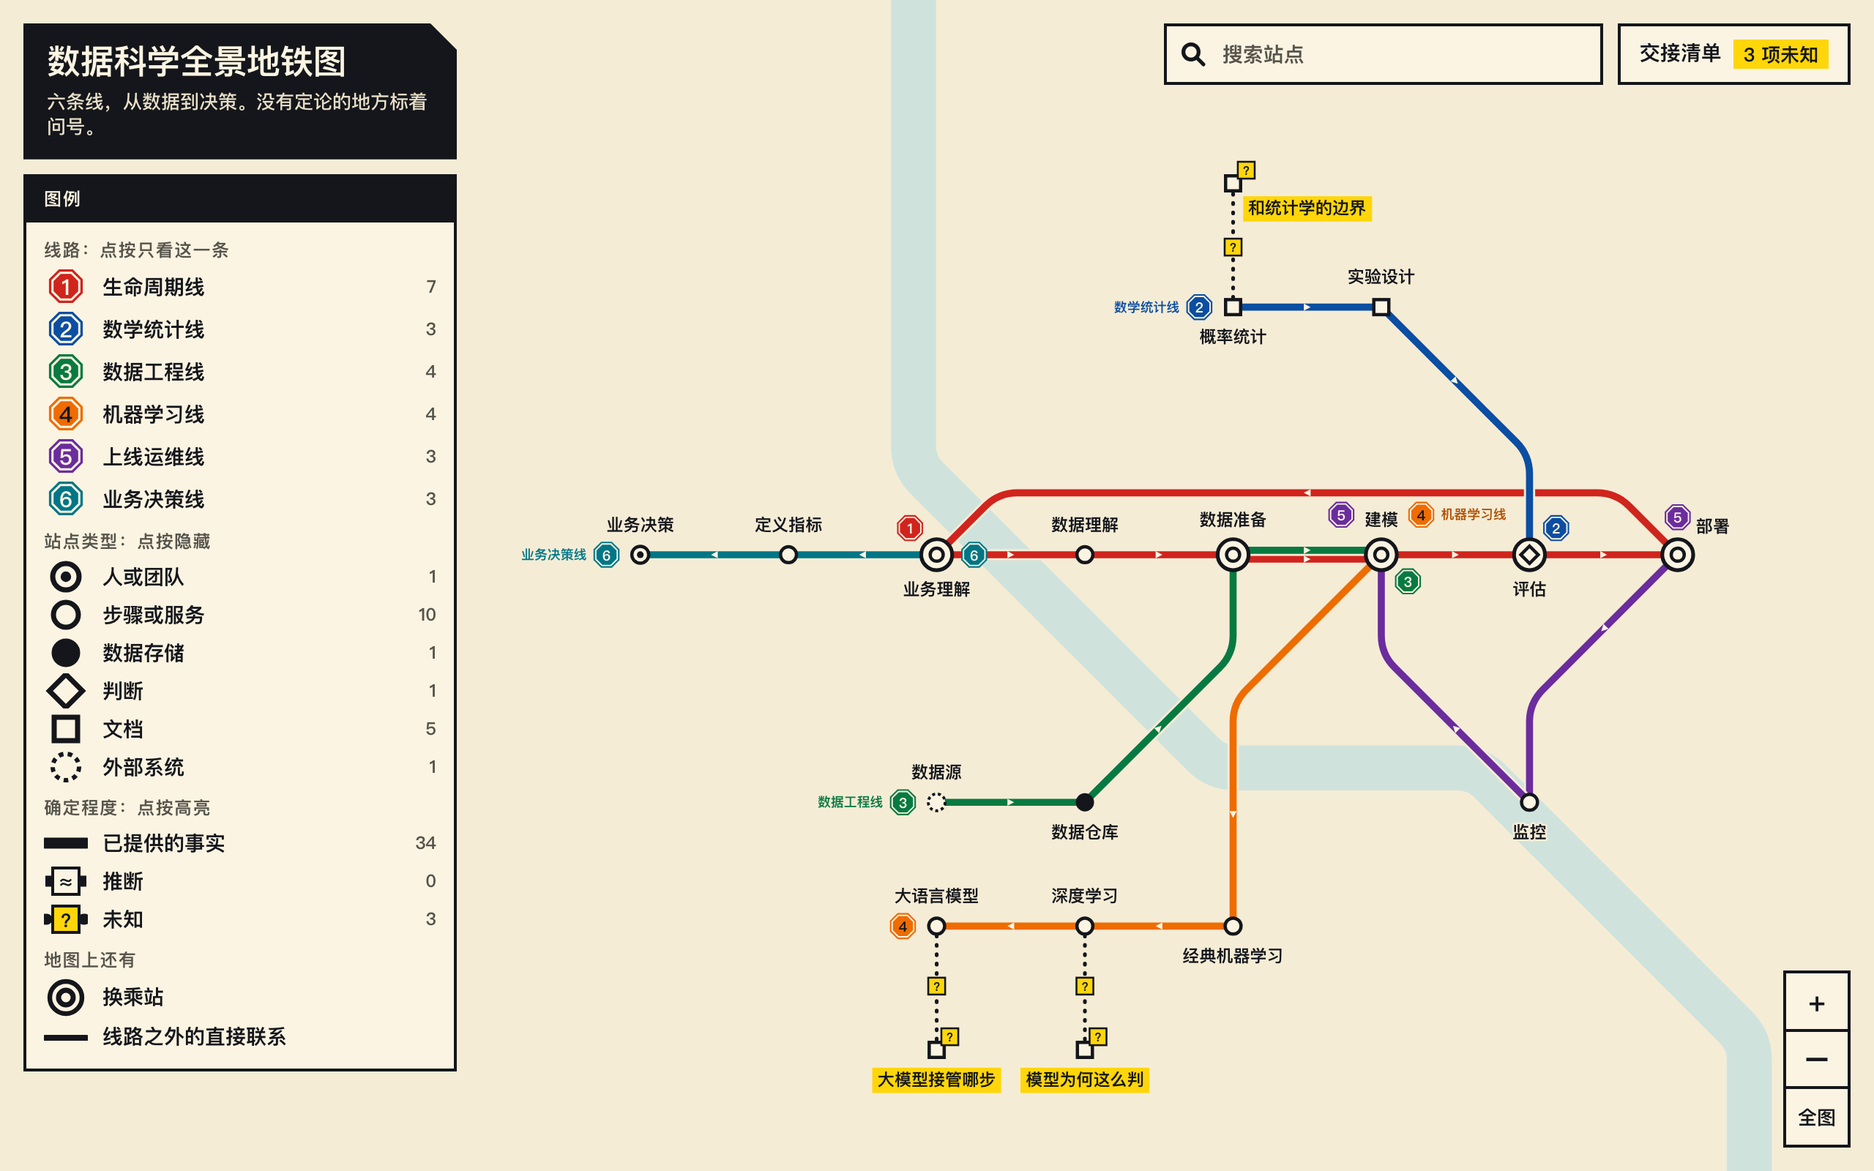
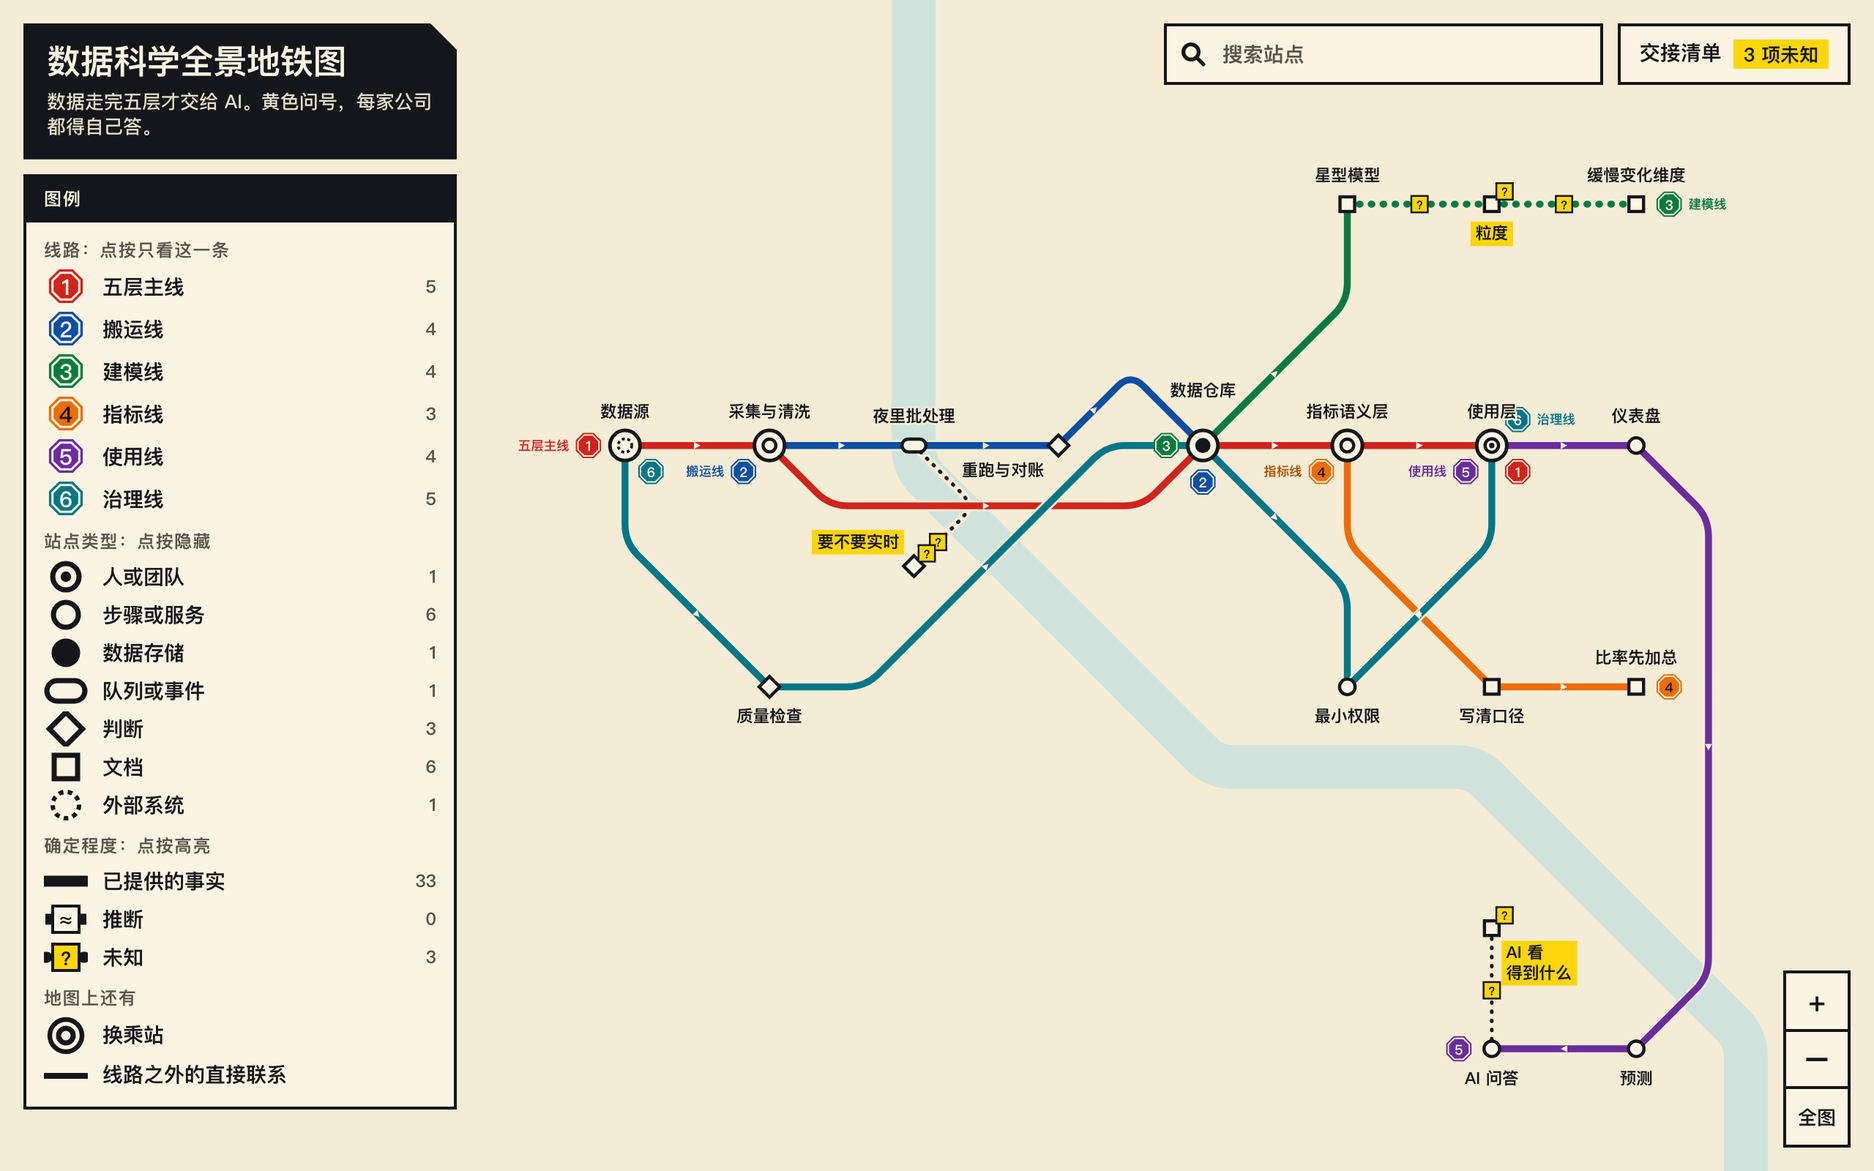
Redraw the data science example around its five layers

diff --git a/docs/data-science.html b/docs/data-science.html
@@ -277,7 +277,7 @@ body.dossier-open #zoom{right:calc(var(--dossier-w) + 28px)}
 
 <!-- SLOT:system  the only content slot: one JSON object with meta, lines, nodes, edges. Filled by scripts/build.mjs.
      Limits: 60 nodes, 8 lines, 120 edges; label 34 characters (16 for Chinese); note 240; basis 200; edge label 40. Schema in references/schema.md. -->
-<script type="application/json" id="system-data" data-slot="system">{"meta":{"lang":"zh","title":"数据科学全景地铁图","subtitle":"六条线，从数据到决策。没有定论的地方标着问号。","fictional":false,"keepLatin":["CRISP-DM"]},"lines":[{"no":1,"name":"生命周期线","role":"CRISP-DM 六个阶段，全图的主干。"},{"no":2,"name":"数学统计线","role":"从基础数学一路通到评估模型。"},{"no":3,"name":"数据工程线","role":"数据从哪来、怎么变成模型能用的。"},{"no":4,"name":"机器学习线","role":"从建模出发，一直到大语言模型。"},{"no":5,"name":"上线运维线","role":"模型上线以后的循环。"},{"no":6,"name":"业务决策线","role":"数据科学怎么变成决定。"}],"nodes":[{"id":"biz","label":"业务理解","type":"process","note":"CRISP-DM 第一阶段；部署后的经验回到这里。"},{"id":"understand","label":"数据理解","type":"process","note":"CRISP-DM 第二阶段。"},{"id":"prep","label":"数据准备","type":"process","note":"CRISP-DM 第三阶段；数据仓库供它使用。"},{"id":"model","label":"建模","type":"process","note":"CRISP-DM 第四阶段。"},{"id":"evaluate","label":"评估","type":"decision","note":"CRISP-DM 第五阶段；评估模型要用到数学统计。"},{"id":"deploy","label":"部署","type":"process","note":"CRISP-DM 第六阶段。"},{"id":"stats","label":"概率统计","type":"document"},{"id":"design","label":"实验设计","type":"document"},{"id":"source","label":"数据源","type":"external"},{"id":"dw","label":"数据仓库","type":"store"},{"id":"classic","label":"经典机器学习","type":"process","note":"包括监督学习和无监督学习。"},{"id":"deep","label":"深度学习","type":"process"},{"id":"llm","label":"大语言模型","type":"process"},{"id":"monitor","label":"监控","type":"process","note":"监控发现数据漂移，就回到建模。"},{"id":"metric","label":"定义指标","type":"process","note":"业务理解之后定义指标，用它支持决策。"},{"id":"decide","label":"业务决策","type":"actor"},{"id":"boundary","label":"和统计学的边界","type":"document","status":"unknown","basis":"数据科学和统计学的边界在哪里？"},{"id":"why","label":"模型为何这么判","type":"document","status":"unknown","basis":"深度模型为什么做出这个判断？"},{"id":"takeover","label":"大模型接管哪步","type":"document","status":"unknown","basis":"大语言模型会接管这条生命周期里的哪几步？"}],"edges":[{"from":"biz","to":"understand","type":"flow","line":1},{"from":"understand","to":"prep","type":"flow","line":1},{"from":"prep","to":"model","type":"flow","line":1},{"from":"model","to":"evaluate","type":"flow","line":1},{"from":"evaluate","to":"deploy","type":"flow","line":1},{"from":"deploy","to":"biz","type":"returns","line":1,"label":"经验回到业务理解"},{"from":"design","to":"evaluate","type":"flow","line":2},{"from":"dw","to":"prep","type":"flow","line":3},{"from":"model","to":"classic","type":"flow","line":4},{"from":"deep","to":"llm","type":"flow","line":4},{"from":"biz","to":"metric","type":"flow","line":6},{"from":"deep","to":"why","type":"depends","status":"unknown","basis":"深度模型为什么做出这个判断？"},{"from":"llm","to":"takeover","type":"depends","status":"unknown","basis":"大语言模型会接管这条生命周期里的哪几步？"},{"from":"stats","to":"design","type":"flow","line":2},{"from":"source","to":"dw","type":"writes","line":3},{"from":"classic","to":"deep","type":"flow","line":4},{"from":"deploy","to":"monitor","type":"flow","line":5},{"from":"stats","to":"boundary","type":"depends","status":"unknown","basis":"数据科学和统计学的边界在哪里？"},{"from":"prep","to":"model","type":"flow","line":3},{"from":"metric","to":"decide","type":"flow","line":6},{"from":"monitor","to":"model","type":"triggers","line":5,"label":"发现数据漂移"}]}</script>
+<script type="application/json" id="system-data" data-slot="system">{"meta":{"lang":"zh","title":"数据科学全景地铁图","subtitle":"数据走完五层才交给 AI。黄色问号，每家公司都得自己答。","fictional":false,"keepLatin":["AI"]},"lines":[{"no":1,"name":"五层主线","role":"数据从源头走到使用层的主路。"},{"no":2,"name":"搬运线","role":"夜里的货车：搬运、重跑、对账。"},{"no":3,"name":"建模线","role":"账本在仓库里怎么摆。"},{"no":4,"name":"指标线","role":"一个词，一个数。"},{"no":5,"name":"使用线","role":"从看发生了什么，到一句话提问。"},{"no":6,"name":"治理线","role":"贯穿全程，守着每一步。"}],"nodes":[{"id":"source","label":"数据源","type":"external","note":"收银台这样的业务系统，负责记账。"},{"id":"clean","label":"采集与清洗","type":"process","note":"五层里的第二层。"},{"id":"dw","label":"数据仓库","type":"store","note":"负责算账。"},{"id":"semantic","label":"指标语义层","type":"process","note":"每个指标只定义一次。"},{"id":"use","label":"使用层","type":"actor","note":"五层里的最上面一层。"},{"id":"batch","label":"夜里批处理","type":"queue","note":"每天夜里批处理。"},{"id":"recon","label":"重跑与对账","type":"decision","note":"好的管道要能放心重跑；每天搬完先对账，再进仓库。"},{"id":"realtime","label":"要不要实时","type":"decision","status":"unknown","basis":"晚多久，会造成损失？"},{"id":"star","label":"星型模型","type":"document","note":"仓库里按星型模型摆账本。"},{"id":"grain","label":"粒度","type":"document","status":"unknown","basis":"一行到底代表什么？"},{"id":"scd","label":"缓慢变化维度","type":"document","note":"资料会变，旧的不改，加一行新的。"},{"id":"caliber","label":"写清口径","type":"document","note":"先写清口径。"},{"id":"ratio","label":"比率先加总","type":"document","note":"比率不能直接平均，要先加总，再做除法。"},{"id":"dash","label":"仪表盘","type":"process","note":"回答发生了什么。"},{"id":"predict","label":"预测","type":"process","note":"回答会发生什么。"},{"id":"ask","label":"AI 问答","type":"process","note":"任何人用一句话提问。"},{"id":"quality","label":"质量检查","type":"decision","note":"检查不过就不进仓库。"},{"id":"perm","label":"最小权限","type":"process","note":"权限只给刚好够用的那一点。"},{"id":"aiperm","label":"AI 看得到什么","type":"document","status":"unknown","basis":"AI 能看到的，提问的人都该看到吗？"}],"edges":[{"from":"source","to":"clean","type":"flow","line":1},{"from":"clean","to":"dw","type":"flow","line":1},{"from":"dw","to":"semantic","type":"flow","line":1},{"from":"semantic","to":"use","type":"flow","line":1},{"from":"clean","to":"batch","type":"flow","line":2},{"from":"recon","to":"dw","type":"flow","line":2},{"from":"dw","to":"star","type":"flow","line":3},{"from":"star","to":"grain","type":"depends","line":3,"status":"unknown","basis":"一行到底代表什么？"},{"from":"grain","to":"scd","type":"flow","line":3,"status":"unknown","basis":"一行到底代表什么？"},{"from":"semantic","to":"caliber","type":"flow","line":4},{"from":"caliber","to":"ratio","type":"flow","line":4},{"from":"use","to":"dash","type":"flow","line":5},{"from":"dash","to":"predict","type":"flow","line":5},{"from":"predict","to":"ask","type":"flow","line":5},{"from":"source","to":"quality","type":"flow","line":6},{"from":"quality","to":"dw","type":"flow","line":6},{"from":"dw","to":"perm","type":"flow","line":6},{"from":"perm","to":"use","type":"flow","line":6},{"from":"batch","to":"realtime","type":"depends","status":"unknown","basis":"晚多久，会造成损失？"},{"from":"ask","to":"aiperm","type":"depends","status":"unknown","basis":"AI 能看到的，提问的人都该看到吗？"},{"from":"batch","to":"recon","type":"flow","line":2}]}</script>
 
 <script id="atlas-layout">
 /* Pure layout: same JSON in, same geometry out. No DOM, no randomness, no clock, input order ignored. */

diff --git a/examples/data-science/index.html b/examples/data-science/index.html
@@ -277,7 +277,7 @@ body.dossier-open #zoom{right:calc(var(--dossier-w) + 28px)}
 
 <!-- SLOT:system  the only content slot: one JSON object with meta, lines, nodes, edges. Filled by scripts/build.mjs.
      Limits: 60 nodes, 8 lines, 120 edges; label 34 characters (16 for Chinese); note 240; basis 200; edge label 40. Schema in references/schema.md. -->
-<script type="application/json" id="system-data" data-slot="system">{"meta":{"lang":"zh","title":"数据科学全景地铁图","subtitle":"六条线，从数据到决策。没有定论的地方标着问号。","fictional":false,"keepLatin":["CRISP-DM"]},"lines":[{"no":1,"name":"生命周期线","role":"CRISP-DM 六个阶段，全图的主干。"},{"no":2,"name":"数学统计线","role":"从基础数学一路通到评估模型。"},{"no":3,"name":"数据工程线","role":"数据从哪来、怎么变成模型能用的。"},{"no":4,"name":"机器学习线","role":"从建模出发，一直到大语言模型。"},{"no":5,"name":"上线运维线","role":"模型上线以后的循环。"},{"no":6,"name":"业务决策线","role":"数据科学怎么变成决定。"}],"nodes":[{"id":"biz","label":"业务理解","type":"process","note":"CRISP-DM 第一阶段；部署后的经验回到这里。"},{"id":"understand","label":"数据理解","type":"process","note":"CRISP-DM 第二阶段。"},{"id":"prep","label":"数据准备","type":"process","note":"CRISP-DM 第三阶段；数据仓库供它使用。"},{"id":"model","label":"建模","type":"process","note":"CRISP-DM 第四阶段。"},{"id":"evaluate","label":"评估","type":"decision","note":"CRISP-DM 第五阶段；评估模型要用到数学统计。"},{"id":"deploy","label":"部署","type":"process","note":"CRISP-DM 第六阶段。"},{"id":"stats","label":"概率统计","type":"document"},{"id":"design","label":"实验设计","type":"document"},{"id":"source","label":"数据源","type":"external"},{"id":"dw","label":"数据仓库","type":"store"},{"id":"classic","label":"经典机器学习","type":"process","note":"包括监督学习和无监督学习。"},{"id":"deep","label":"深度学习","type":"process"},{"id":"llm","label":"大语言模型","type":"process"},{"id":"monitor","label":"监控","type":"process","note":"监控发现数据漂移，就回到建模。"},{"id":"metric","label":"定义指标","type":"process","note":"业务理解之后定义指标，用它支持决策。"},{"id":"decide","label":"业务决策","type":"actor"},{"id":"boundary","label":"和统计学的边界","type":"document","status":"unknown","basis":"数据科学和统计学的边界在哪里？"},{"id":"why","label":"模型为何这么判","type":"document","status":"unknown","basis":"深度模型为什么做出这个判断？"},{"id":"takeover","label":"大模型接管哪步","type":"document","status":"unknown","basis":"大语言模型会接管这条生命周期里的哪几步？"}],"edges":[{"from":"biz","to":"understand","type":"flow","line":1},{"from":"understand","to":"prep","type":"flow","line":1},{"from":"prep","to":"model","type":"flow","line":1},{"from":"model","to":"evaluate","type":"flow","line":1},{"from":"evaluate","to":"deploy","type":"flow","line":1},{"from":"deploy","to":"biz","type":"returns","line":1,"label":"经验回到业务理解"},{"from":"design","to":"evaluate","type":"flow","line":2},{"from":"dw","to":"prep","type":"flow","line":3},{"from":"model","to":"classic","type":"flow","line":4},{"from":"deep","to":"llm","type":"flow","line":4},{"from":"biz","to":"metric","type":"flow","line":6},{"from":"deep","to":"why","type":"depends","status":"unknown","basis":"深度模型为什么做出这个判断？"},{"from":"llm","to":"takeover","type":"depends","status":"unknown","basis":"大语言模型会接管这条生命周期里的哪几步？"},{"from":"stats","to":"design","type":"flow","line":2},{"from":"source","to":"dw","type":"writes","line":3},{"from":"classic","to":"deep","type":"flow","line":4},{"from":"deploy","to":"monitor","type":"flow","line":5},{"from":"stats","to":"boundary","type":"depends","status":"unknown","basis":"数据科学和统计学的边界在哪里？"},{"from":"prep","to":"model","type":"flow","line":3},{"from":"metric","to":"decide","type":"flow","line":6},{"from":"monitor","to":"model","type":"triggers","line":5,"label":"发现数据漂移"}]}</script>
+<script type="application/json" id="system-data" data-slot="system">{"meta":{"lang":"zh","title":"数据科学全景地铁图","subtitle":"数据走完五层才交给 AI。黄色问号，每家公司都得自己答。","fictional":false,"keepLatin":["AI"]},"lines":[{"no":1,"name":"五层主线","role":"数据从源头走到使用层的主路。"},{"no":2,"name":"搬运线","role":"夜里的货车：搬运、重跑、对账。"},{"no":3,"name":"建模线","role":"账本在仓库里怎么摆。"},{"no":4,"name":"指标线","role":"一个词，一个数。"},{"no":5,"name":"使用线","role":"从看发生了什么，到一句话提问。"},{"no":6,"name":"治理线","role":"贯穿全程，守着每一步。"}],"nodes":[{"id":"source","label":"数据源","type":"external","note":"收银台这样的业务系统，负责记账。"},{"id":"clean","label":"采集与清洗","type":"process","note":"五层里的第二层。"},{"id":"dw","label":"数据仓库","type":"store","note":"负责算账。"},{"id":"semantic","label":"指标语义层","type":"process","note":"每个指标只定义一次。"},{"id":"use","label":"使用层","type":"actor","note":"五层里的最上面一层。"},{"id":"batch","label":"夜里批处理","type":"queue","note":"每天夜里批处理。"},{"id":"recon","label":"重跑与对账","type":"decision","note":"好的管道要能放心重跑；每天搬完先对账，再进仓库。"},{"id":"realtime","label":"要不要实时","type":"decision","status":"unknown","basis":"晚多久，会造成损失？"},{"id":"star","label":"星型模型","type":"document","note":"仓库里按星型模型摆账本。"},{"id":"grain","label":"粒度","type":"document","status":"unknown","basis":"一行到底代表什么？"},{"id":"scd","label":"缓慢变化维度","type":"document","note":"资料会变，旧的不改，加一行新的。"},{"id":"caliber","label":"写清口径","type":"document","note":"先写清口径。"},{"id":"ratio","label":"比率先加总","type":"document","note":"比率不能直接平均，要先加总，再做除法。"},{"id":"dash","label":"仪表盘","type":"process","note":"回答发生了什么。"},{"id":"predict","label":"预测","type":"process","note":"回答会发生什么。"},{"id":"ask","label":"AI 问答","type":"process","note":"任何人用一句话提问。"},{"id":"quality","label":"质量检查","type":"decision","note":"检查不过就不进仓库。"},{"id":"perm","label":"最小权限","type":"process","note":"权限只给刚好够用的那一点。"},{"id":"aiperm","label":"AI 看得到什么","type":"document","status":"unknown","basis":"AI 能看到的，提问的人都该看到吗？"}],"edges":[{"from":"source","to":"clean","type":"flow","line":1},{"from":"clean","to":"dw","type":"flow","line":1},{"from":"dw","to":"semantic","type":"flow","line":1},{"from":"semantic","to":"use","type":"flow","line":1},{"from":"clean","to":"batch","type":"flow","line":2},{"from":"recon","to":"dw","type":"flow","line":2},{"from":"dw","to":"star","type":"flow","line":3},{"from":"star","to":"grain","type":"depends","line":3,"status":"unknown","basis":"一行到底代表什么？"},{"from":"grain","to":"scd","type":"flow","line":3,"status":"unknown","basis":"一行到底代表什么？"},{"from":"semantic","to":"caliber","type":"flow","line":4},{"from":"caliber","to":"ratio","type":"flow","line":4},{"from":"use","to":"dash","type":"flow","line":5},{"from":"dash","to":"predict","type":"flow","line":5},{"from":"predict","to":"ask","type":"flow","line":5},{"from":"source","to":"quality","type":"flow","line":6},{"from":"quality","to":"dw","type":"flow","line":6},{"from":"dw","to":"perm","type":"flow","line":6},{"from":"perm","to":"use","type":"flow","line":6},{"from":"batch","to":"realtime","type":"depends","status":"unknown","basis":"晚多久，会造成损失？"},{"from":"ask","to":"aiperm","type":"depends","status":"unknown","basis":"AI 能看到的，提问的人都该看到吗？"},{"from":"batch","to":"recon","type":"flow","line":2}]}</script>
 
 <script id="atlas-layout">
 /* Pure layout: same JSON in, same geometry out. No DOM, no randomness, no clock, input order ignored. */

diff --git a/examples/data-science/brief.md b/examples/data-science/brief.md
@@ -1,15 +1,13 @@
-把数据科学这个领域的全貌画出来，让刚入门的人看清每样东西在哪、和什么相连。
+把「数据科学全景」五集视频（EP55–59）的结构画成一张图：数据从收银台出发，走完五层，才交给 AI。
 
-生命周期按 CRISP-DM：业务理解、数据理解、数据准备、建模、评估、部署，六个阶段依次进行，部署后的经验回到业务理解。
-数学统计：概率统计、实验设计，评估模型要用到它们。
-数据工程：数据源进入数据仓库，供数据准备使用，再进入建模。
-机器学习：建模从经典机器学习（监督学习、无监督学习）开始，往后是深度学习、大语言模型。
-上线运维：部署后要监控，监控发现数据漂移就回到建模。
-业务决策：业务理解之后定义指标，用它支持业务决策。
+五层主线：数据源，采集与清洗，数据仓库，指标语义层，使用层。收银台这样的业务系统负责记账（OLTP），数据仓库负责算账（OLAP）。
+搬运：每天夜里批处理；好的管道要能放心重跑（幂等）；每天搬完先对账，再进仓库。
+建模：仓库里按星型模型摆账本，建模先定粒度；资料会变，旧的不改，加一行新的（缓慢变化维度）。
+指标：每个指标只定义一次，先写清口径；比率不能直接平均，要先加总，再做除法。
+使用：仪表盘回答发生了什么，预测回答会发生什么，AI 问答让任何人用一句话提问。
+治理与安全贯穿全程：检查不过就不进仓库，权限只给刚好够用的那一点。
 
-没有定论的三个问题：
-- 数据科学和统计学的边界在哪里？（Donoho 2017 专门讨论过）
-- 深度模型为什么做出这个判断？（可解释性仍是开放的研究问题）
-- 大语言模型会接管这条生命周期里的哪几步？
-
-依据：Chapman et al., CRISP-DM 1.0 (2000)；Donoho, 50 Years of Data Science (2017)；Cao, Data Science: A Comprehensive Overview (2017)。
+视频里留给观众自己回答的三个问题：
+- 一行到底代表什么？
+- 晚多久，会造成损失？（决定要不要实时）
+- AI 能看到的，提问的人都该看到吗？

diff --git a/README.md b/README.md
@@ -60,7 +60,7 @@ Each folder holds the brief, the data and the map.
 | Example | Live map |
 |---|---|
 | [70 years of AI](examples/ai-history) (Chinese) | [Open](https://superevh.github.io/transit-atlas/) |
-| [Data science, end to end](examples/data-science) (Chinese) | [Open](https://superevh.github.io/transit-atlas/data-science.html) |
+| [Data science panorama: five layers from the till to AI](examples/data-science) (Chinese) | [Open](https://superevh.github.io/transit-atlas/data-science.html) |
 | [Library loans](examples/library), fictional (English) | [Open](https://superevh.github.io/transit-atlas/library.html) |
 
 ## When not to use it
